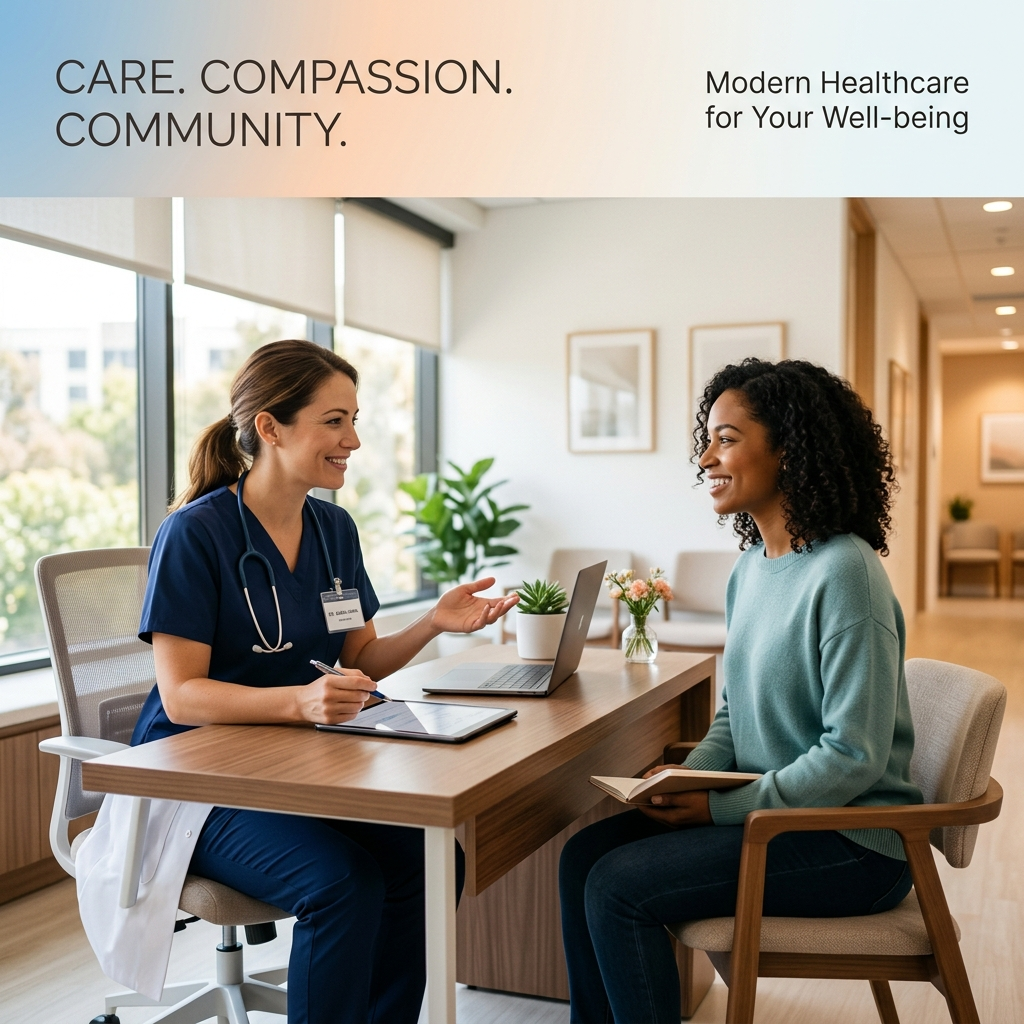
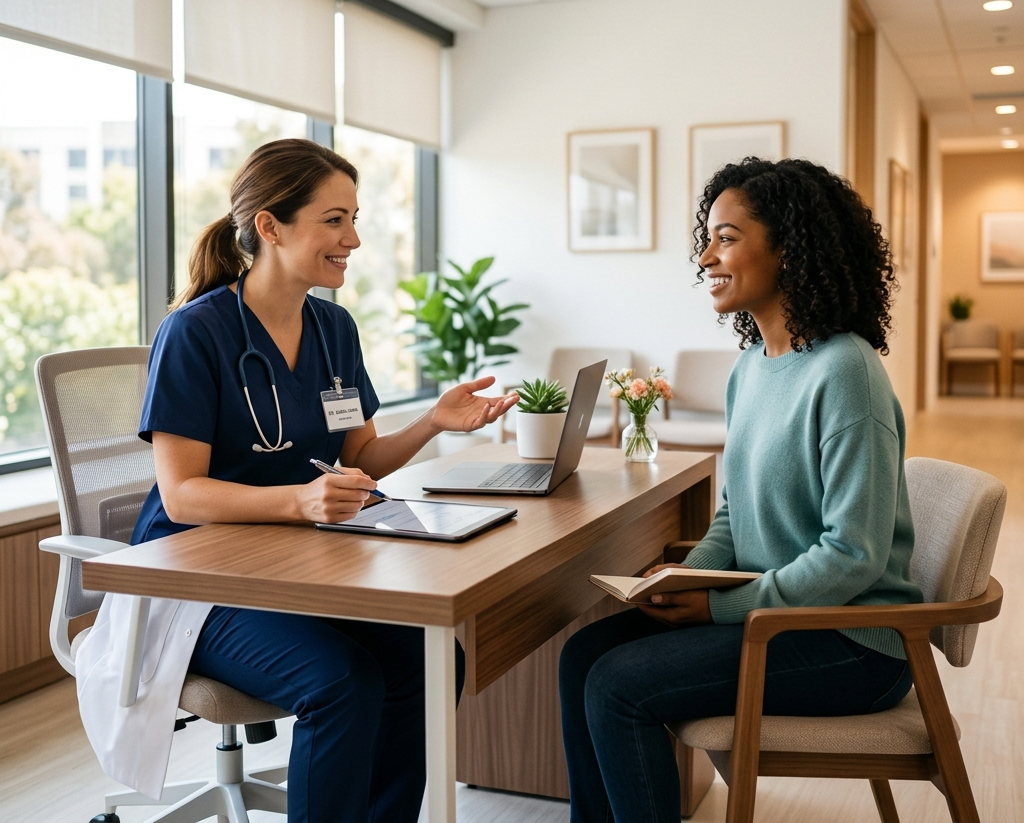
recreated the pillars

diff --git a/src/app/about/page.tsx b/src/app/about/page.tsx
@@ -7,42 +7,76 @@ import Navbar from "@/components/Navbar";
 import FinalCTA from "@/components/FinalCTA";
 import Footer from "@/components/Footer";
 
-const values = [
+const pillars = [
   {
-    title: "Compassionate Clinical Care",
-    description: "Our approach is rooted in deep medical empathy, treating every client like family, prioritizing emotional and physical well-being above all.",
-    image: "/benefits_home_care.png",
+    title: "Holistic Approach",
+    description:
+      "We bring together a skilled team of doctors, nurses, and wellness experts to care for your full physical, mental, and emotional health.",
+    image: "/holistic approch.jpg",
+    alt: "Holistic Approach - Whole Person Health Care",
+    icon: (
+      <div className="w-10 h-10 rounded-2xl bg-gradient-to-br from-emerald-400 to-teal-600 text-white flex items-center justify-center shadow-lg shadow-emerald-500/30">
+        <svg className="w-5 h-5" fill="none" viewBox="0 0 24 24" stroke="currentColor">
+          <path strokeLinecap="round" strokeLinejoin="round" strokeWidth={2} d="M12 4.354a4 4 0 110 5.292M15 21H3v-1a6 6 0 0112 0v1zm0 0h6v-1a6 6 0 00-9-5.197M13 7a4 4 0 11-8 0 4 4 0 018 0z" />
+        </svg>
+      </div>
+    ),
+  },
+  {
+    title: "Easy Accessibility and Affordability",
+    description:
+      "Get medical care 24/7 whenever you need it. Our services are affordable and work with health and travel insurance.",
+    image: "/aboutushero.png",
+    alt: "Easy Accessibility and Affordability - 24/7 Care",
     icon: (
       <div className="w-10 h-10 rounded-2xl bg-gradient-to-br from-sky-400 to-blue-600 text-white flex items-center justify-center shadow-lg shadow-sky-500/30">
+        <svg className="w-5 h-5" fill="none" viewBox="0 0 24 24" stroke="currentColor">
+          <path strokeLinecap="round" strokeLinejoin="round" strokeWidth={2} d="M12 8c-1.657 0-3 .895-3 2s1.343 2 3 2 3 .895 3 2-1.343 2-3 2m0-8c1.11 0 2.08.402 2.599 1M12 8V7m0 1v8m0 0v1m0-1c-1.11 0-2.08-.402-2.599-1M21 12a9 9 0 11-18 0 9 9 0 0118 0z" />
+        </svg>
+      </div>
+    ),
+  },
+  {
+    title: "Trustworthiness",
+    description:
+      "You are in safe hands. We work with licensed medical experts, trusted specialists, and top private hospitals to give you reliable care.",
+    image: "/doctorscaring.jpg",
+    alt: "Trustworthiness - Licensed Medical Professionals",
+    icon: (
+      <div className="w-10 h-10 rounded-2xl bg-gradient-to-br from-blue-500 to-indigo-600 text-white flex items-center justify-center shadow-lg shadow-indigo-500/30">
+        <svg className="w-5 h-5" fill="none" viewBox="0 0 24 24" stroke="currentColor">
+          <path strokeLinecap="round" strokeLinejoin="round" strokeWidth={2} d="M9 12l2 2 4-4m5.618-4.016A11.955 11.955 0 0112 2.944a11.955 11.955 0 01-8.618 3.04A12.02 12.02 0 003 9c0 5.591 3.824 10.29 9 11.622 5.176-1.332 9-6.03 9-11.622 0-1.042-.133-2.052-.382-3.016z" />
+        </svg>
+      </div>
+    ),
+  },
+  {
+    title: "Outstanding Compassion, Care, and Communication",
+    description:
+      "We treat you like family. Our care team listens closely, communicates clearly, and stays with you every step of the way.",
+    image: "/benefits_telemedicine2.png",
+    alt: "Compassion Care and Communication - Dedicated Telemedicine Team",
+    icon: (
+      <div className="w-10 h-10 rounded-2xl bg-gradient-to-br from-rose-400 to-red-500 text-white flex items-center justify-center shadow-lg shadow-rose-500/30">
         <svg className="w-5 h-5" fill="none" viewBox="0 0 24 24" stroke="currentColor">
           <path strokeLinecap="round" strokeLinejoin="round" strokeWidth={2} d="M4.318 6.318a4.5 4.5 0 000 6.364L12 20.364l7.682-7.684a4.5 4.5 0 00-7.682-6.364L12 7.636l-1.318-1.318a4.5 4.5 0 00-6.364 0z" />
         </svg>
       </div>
-    )
+    ),
   },
   {
-    title: "On-Demand Digital Telemedicine",
-    description: "We harness modern digital health tools to connect you with SLMC-licensed physicians, providing seamless, confidential care anywhere.",
-    image: "/doctorscaring.jpg",
-    icon: (
-      <div className="w-10 h-10 rounded-2xl bg-gradient-to-br from-emerald-400 to-teal-600 text-white flex items-center justify-center shadow-lg shadow-emerald-500/30">
-        <svg className="w-5 h-5" fill="none" viewBox="0 0 24 24" stroke="currentColor">
-          <path strokeLinecap="round" strokeLinejoin="round" strokeWidth={2} d="M9.75 17L9 20l-1 1h8l-1-1-.75-3M3 13h18M5 17h14a2 2 0 002-2V5a2 2 0 00-2-2H5a2 2 0 00-2 2v10a2 2 0 002 2z" />
-        </svg>
-      </div>
-    )
-  },
-  {
-    title: "Mindful & Multifaith Wellness",
-    description: "Integrating traditional medicine with sacred chaplaincy and mindfulness practices to deliver care that nourishes body, mind, and spirit.",
-    image: "/benefits_integrated_healing.png",
+    title: "Corporate Social Responsibility",
+    description:
+      "We give back to our community. Together, we help support and care for children and families in need.",
+    image: "/hero_community.png",
+    alt: "Corporate Social Responsibility - Community Support",
     icon: (
       <div className="w-10 h-10 rounded-2xl bg-gradient-to-br from-amber-400 to-orange-500 text-white flex items-center justify-center shadow-lg shadow-amber-500/30">
         <svg className="w-5 h-5" fill="none" viewBox="0 0 24 24" stroke="currentColor">
-          <path strokeLinecap="round" strokeLinejoin="round" strokeWidth={2} d="M12 3v1m6.364 1.636l-.707.707M21 12h-1M4 12H3m3.343-5.657l-.707-.707m2.828 9.9a5 5 0 117.072 0l-.548.547A3.374 3.374 0 0014 18.469V19a2 2 0 01-2 2h-4a2 2 0 01-2-2v-.531c0-.895-.356-1.754-.988-2.386l-.548-.547z" />
+          <path strokeLinecap="round" strokeLinejoin="round" strokeWidth={2} d="M12 11c0 3.517-1.009 6.799-2.753 9.571m-3.44-2.04l.054-.09A13.916 13.916 0 008 11a4 4 0 118 0c0 1.017-.07 2.019-.203 3m-2.118 6.844A21.88 21.88 0 0015.171 17m3.839 1.132c.645-2.266.99-4.659.99-7.132A8 8 0 008 4.07M3 15.364c.64-1.319 1-2.8 1-4.364 0-1.457-.312-2.841-.873-4.084" />
         </svg>
       </div>
-    )
+    ),
   },
 ];
 
@@ -51,11 +85,10 @@ export default function AboutPage() {
     <main className="min-h-screen bg-[#fefcf8]">
       <Navbar />
 
-      {/* Dedicated About Us Hero Section (Distinct 2-Column Showcase) */}
+      {/* Hero Section */}
       <section className="relative pt-36 sm:pt-44 pb-16 lg:pt-44 lg:pb-24 overflow-hidden bg-[#fefcf8] border-b border-slate-200/80">
         <div className="mx-auto max-w-7xl px-6 lg:px-8 relative z-10">
           <div className="grid grid-cols-1 lg:grid-cols-12 gap-12 lg:gap-14 items-center">
-            
             {/* Left Column: Mission Statement & Philosophy */}
             <div className="lg:col-span-7">
               <h1 className="text-4xl sm:text-5xl lg:text-[4.25rem] font-extrabold text-primary leading-[1.08] tracking-tight mb-6">
@@ -101,7 +134,7 @@ export default function AboutPage() {
               </div>
             </div>
 
-            {/* Right Column: Distinct Framed Team Showcase Card */}
+            {/* Right Column: Framed Team Showcase */}
             <div className="lg:col-span-5 relative">
               <div className="relative rounded-[2.5rem] overflow-hidden border border-slate-200/80 bg-white p-3 shadow-2xl shadow-slate-900/10 group">
                 <div className="relative h-[420px] sm:h-[480px] w-full rounded-[2rem] overflow-hidden">
@@ -118,7 +151,9 @@ export default function AboutPage() {
                   <div className="absolute bottom-6 left-6 right-6 p-4 rounded-2xl bg-white/90 backdrop-blur-md border border-white/60 shadow-lg flex items-center justify-between">
                     <div className="flex items-center gap-3">
                       <div className="h-10 w-10 rounded-xl bg-emerald-600 text-white flex items-center justify-center font-bold text-sm shadow-sm">
-                        <svg className="w-5 h-5" fill="none" viewBox="0 0 24 24" stroke="currentColor"><path strokeLinecap="round" strokeLinejoin="round" strokeWidth={2} d="M9 12l2 2 4-4m5.618-4.016A11.955 11.955 0 0112 2.944a11.955 11.955 0 01-8.618 3.04A12.02 12.02 0 003 9c0 5.591 3.824 10.29 9 11.622 5.176-1.332 9-6.03 9-11.622 0-1.042-.133-2.052-.382-3.016z" /></svg>
+                        <svg className="w-5 h-5" fill="none" viewBox="0 0 24 24" stroke="currentColor">
+                          <path strokeLinecap="round" strokeLinejoin="round" strokeWidth={2} d="M9 12l2 2 4-4m5.618-4.016A11.955 11.955 0 0112 2.944a11.955 11.955 0 01-8.618 3.04A12.02 12.02 0 003 9c0 5.591 3.824 10.29 9 11.622 5.176-1.332 9-6.03 9-11.622 0-1.042-.133-2.052-.382-3.016z" />
+                        </svg>
                       </div>
                       <div>
                         <h4 className="text-xs font-extrabold text-slate-900">Verified Medical Specialists</h4>
@@ -129,7 +164,6 @@ export default function AboutPage() {
                 </div>
               </div>
             </div>
-
           </div>
         </div>
       </section>
@@ -138,8 +172,7 @@ export default function AboutPage() {
       <section className="py-20 sm:py-24 bg-white relative overflow-hidden">
         <div className="mx-auto max-w-7xl px-6 lg:px-8 relative z-10">
           <div className="grid grid-cols-1 lg:grid-cols-2 gap-12 lg:gap-16 items-center">
-            
-            {/* Story Image Area - Presentation of Logo & Badge */}
+            {/* Story Image Area */}
             <div className="relative order-2 lg:order-1">
               <div className="absolute -inset-4 bg-gradient-to-tr from-accent to-secondary/10 rounded-[40px] transform -rotate-2 border border-secondary/20 shadow-inner"></div>
               <div className="absolute -inset-2 bg-slate-50 rounded-[35px] transform rotate-1 backdrop-blur-sm border border-slate-200/60"></div>
@@ -147,7 +180,7 @@ export default function AboutPage() {
               <div className="relative rounded-3xl bg-white shadow-xl p-8 sm:p-12 border border-slate-100 flex aspect-square items-center justify-center group overflow-hidden">
                 <div className="absolute inset-0 bg-gradient-to-br from-white via-slate-50/50 to-white z-0" />
                 <Image
-                  src="/logo111.png"
+                  src="/Your Trusted Partner.png"
                   alt="Health Link Logo"
                   width={320}
                   height={320}
@@ -192,14 +225,12 @@ export default function AboutPage() {
                 </div>
               </div>
             </div>
-
           </div>
         </div>
       </section>
 
-      {/* Vision & Mission Interactive Showcase Section */}
+      {/* Vision & Mission Showcase Section */}
       <section className="py-16 sm:py-20 bg-slate-900 text-white relative overflow-hidden my-12 rounded-[2.5rem] sm:rounded-[3.5rem] mx-4 sm:mx-8 lg:mx-auto max-w-7xl shadow-2xl">
-        {/* Background ambient light effects */}
         <div className="absolute -top-32 -left-32 w-96 h-96 bg-emerald-500/15 rounded-full blur-3xl pointer-events-none" />
         <div className="absolute -bottom-32 -right-32 w-96 h-96 bg-sky-500/15 rounded-full blur-3xl pointer-events-none" />
 
@@ -234,7 +265,6 @@ export default function AboutPage() {
               </div>
               <div className="mt-8 pt-6 border-t border-white/10 flex items-center justify-between text-xs font-semibold text-slate-400">
                 <span>Universal Healthcare Access</span>
-                
               </div>
             </div>
 
@@ -262,7 +292,7 @@ export default function AboutPage() {
         </div>
       </section>
 
-      {/* Core Pillars Section */}
+      {/* Core Pillars Section (Centering the bottom 2 pillars) */}
       <section className="py-20 sm:py-24 bg-[#fefcf8] relative border-t border-slate-200/80">
         <div className="mx-auto max-w-7xl px-6 lg:px-8 relative z-10">
           <div className="mx-auto max-w-2xl text-center mb-16">
@@ -271,35 +301,38 @@ export default function AboutPage() {
               What Drives Our Mission
             </h2>
             <p className="text-sm sm:text-base leading-relaxed text-slate-600 font-medium">
-              We stand by fundamental pillars that ensure every interaction enriches your journey towards complete well-being.
+              We stand by five fundamental pillars that ensure every interaction enriches your journey towards complete well-being.
             </p>
           </div>
 
-          <div className="grid grid-cols-1 md:grid-cols-3 gap-8">
-            {values.map((value, idx) => (
+          <div className="flex flex-wrap justify-center -m-4">
+            {pillars.map((pillar, idx) => (
               <div 
                 key={idx} 
-                className="group relative bg-white rounded-3xl p-6 sm:p-8 shadow-sm hover:shadow-xl transition-all duration-300 hover:-translate-y-1.5 border border-slate-200/80 flex flex-col justify-between"
+                className="p-4 w-full md:w-1/2 lg:w-1/3 flex"
               >
-                <div>
-                  <div className="relative mb-6 h-48 w-full overflow-hidden rounded-2xl bg-slate-100">
-                    <Image
-                      src={value.image}
-                      alt={value.title}
-                      fill
-                      className="object-cover transform transition-transform duration-700 group-hover:scale-105"
-                    />
-                    <div className="absolute top-4 left-4 z-10">
-                      {value.icon}
+                <div className="w-full group relative bg-white rounded-3xl p-6 sm:p-8 shadow-sm hover:shadow-xl transition-all duration-300 hover:-translate-y-1.5 border border-slate-200/80 flex flex-col justify-between">
+                  <div>
+                    {/* Image Frame */}
+                    <div className="relative mb-6 h-48 w-full overflow-hidden rounded-2xl bg-slate-100 border border-slate-200/60">
+                      <Image
+                        src={pillar.image}
+                        alt={pillar.alt}
+                        fill
+                        className="object-cover transform transition-transform duration-700 group-hover:scale-105"
+                      />
+                      <div className="absolute top-4 left-4 z-10">
+                        {pillar.icon}
+                      </div>
                     </div>
+
+                    <h3 className="text-xl font-extrabold text-primary mb-3 group-hover:text-secondary transition-colors">
+                      {pillar.title}
+                    </h3>
+                    <p className="text-slate-600 leading-relaxed text-xs sm:text-sm font-medium">
+                      {pillar.description}
+                    </p>
                   </div>
-                  
-                  <h3 className="text-xl font-extrabold text-primary mb-3 group-hover:text-secondary transition-colors">
-                    {value.title}
-                  </h3>
-                  <p className="text-slate-600 leading-relaxed text-xs sm:text-sm font-medium">
-                    {value.description}
-                  </p>
                 </div>
               </div>
             ))}

diff --git a/src/components/Positioning.tsx b/src/components/Positioning.tsx
@@ -14,7 +14,7 @@ export default function Positioning() {
                             Pioneering Holistic Care
                         </span>
                         <h2 className="text-2xl sm:text-3xl lg:text-4xl font-extrabold text-primary leading-snug tracking-tight">
-                            Integrating <span className="underline decoration-secondary decoration-4 underline-offset-4">24/7 on-demand medical care</span> with <span className="text-secondary font-black">personalized wellness</span> to pioneer a new era of comprehensive health.
+                            Integrating 24/7 on-demand medical care with <span className="text-secondary font-black">personalized wellness</span> to pioneer a new era of comprehensive health.
                         </h2>
                     </div>
 
